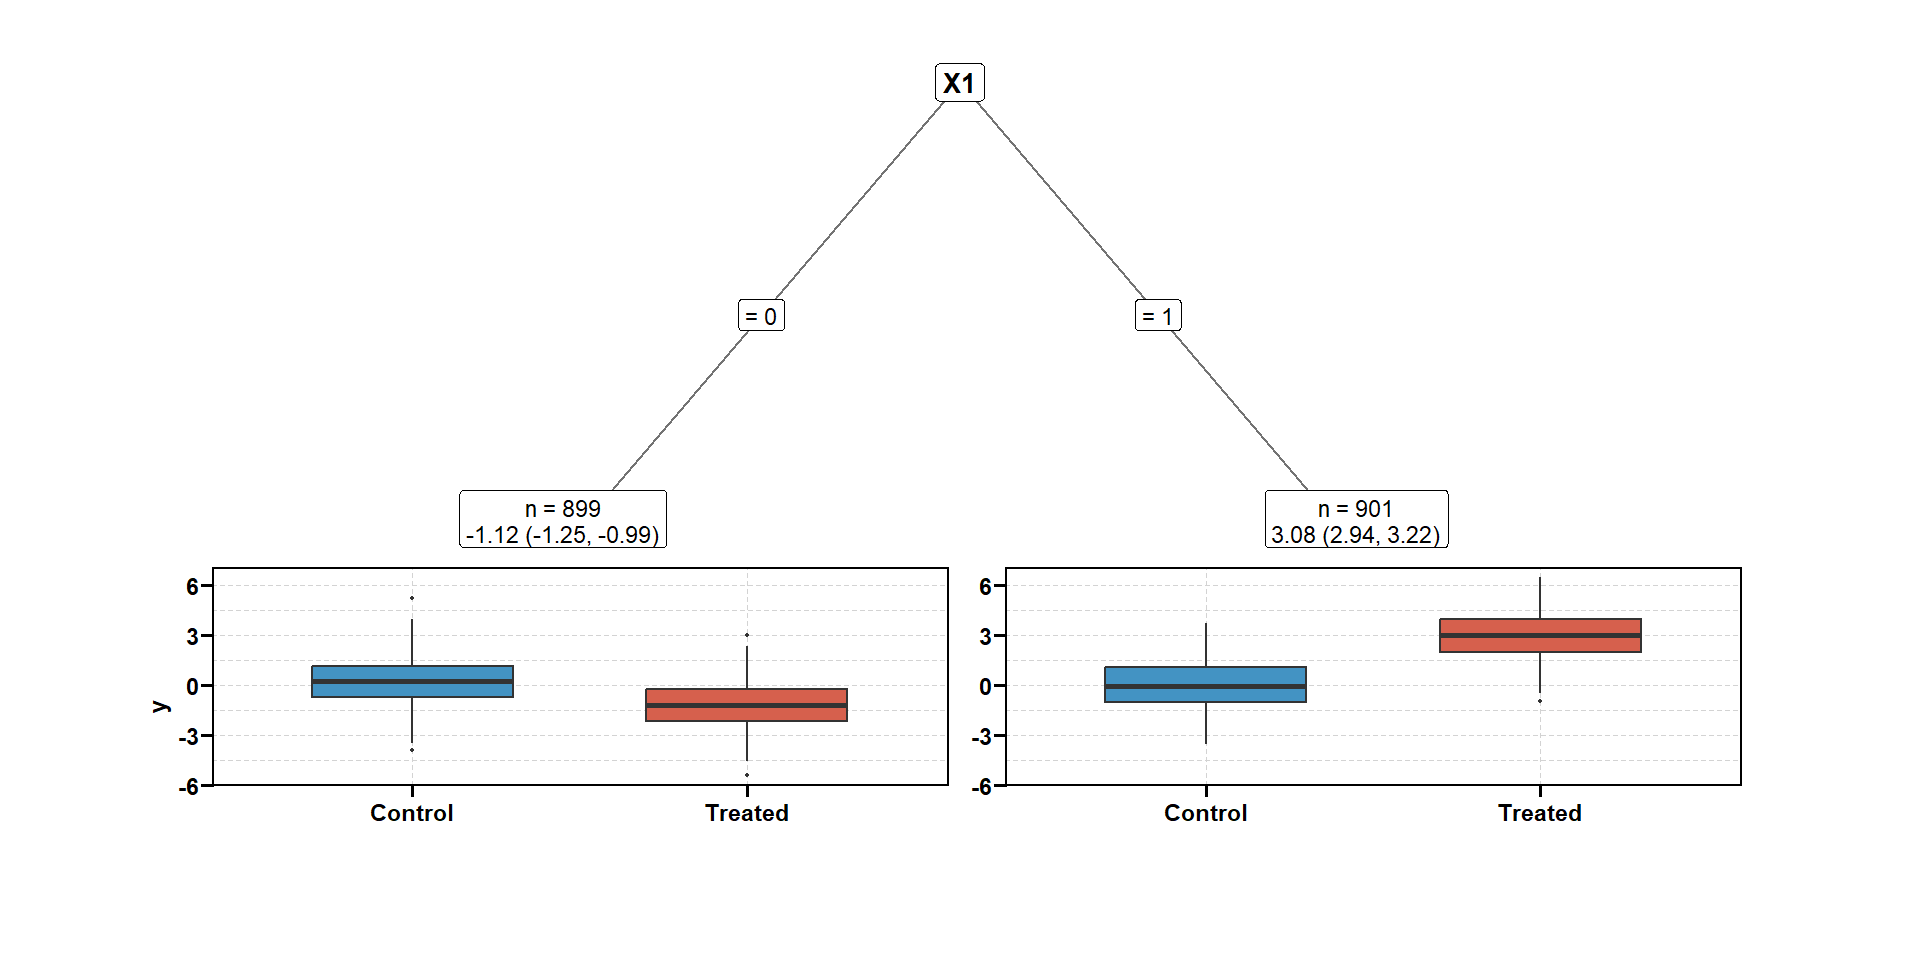
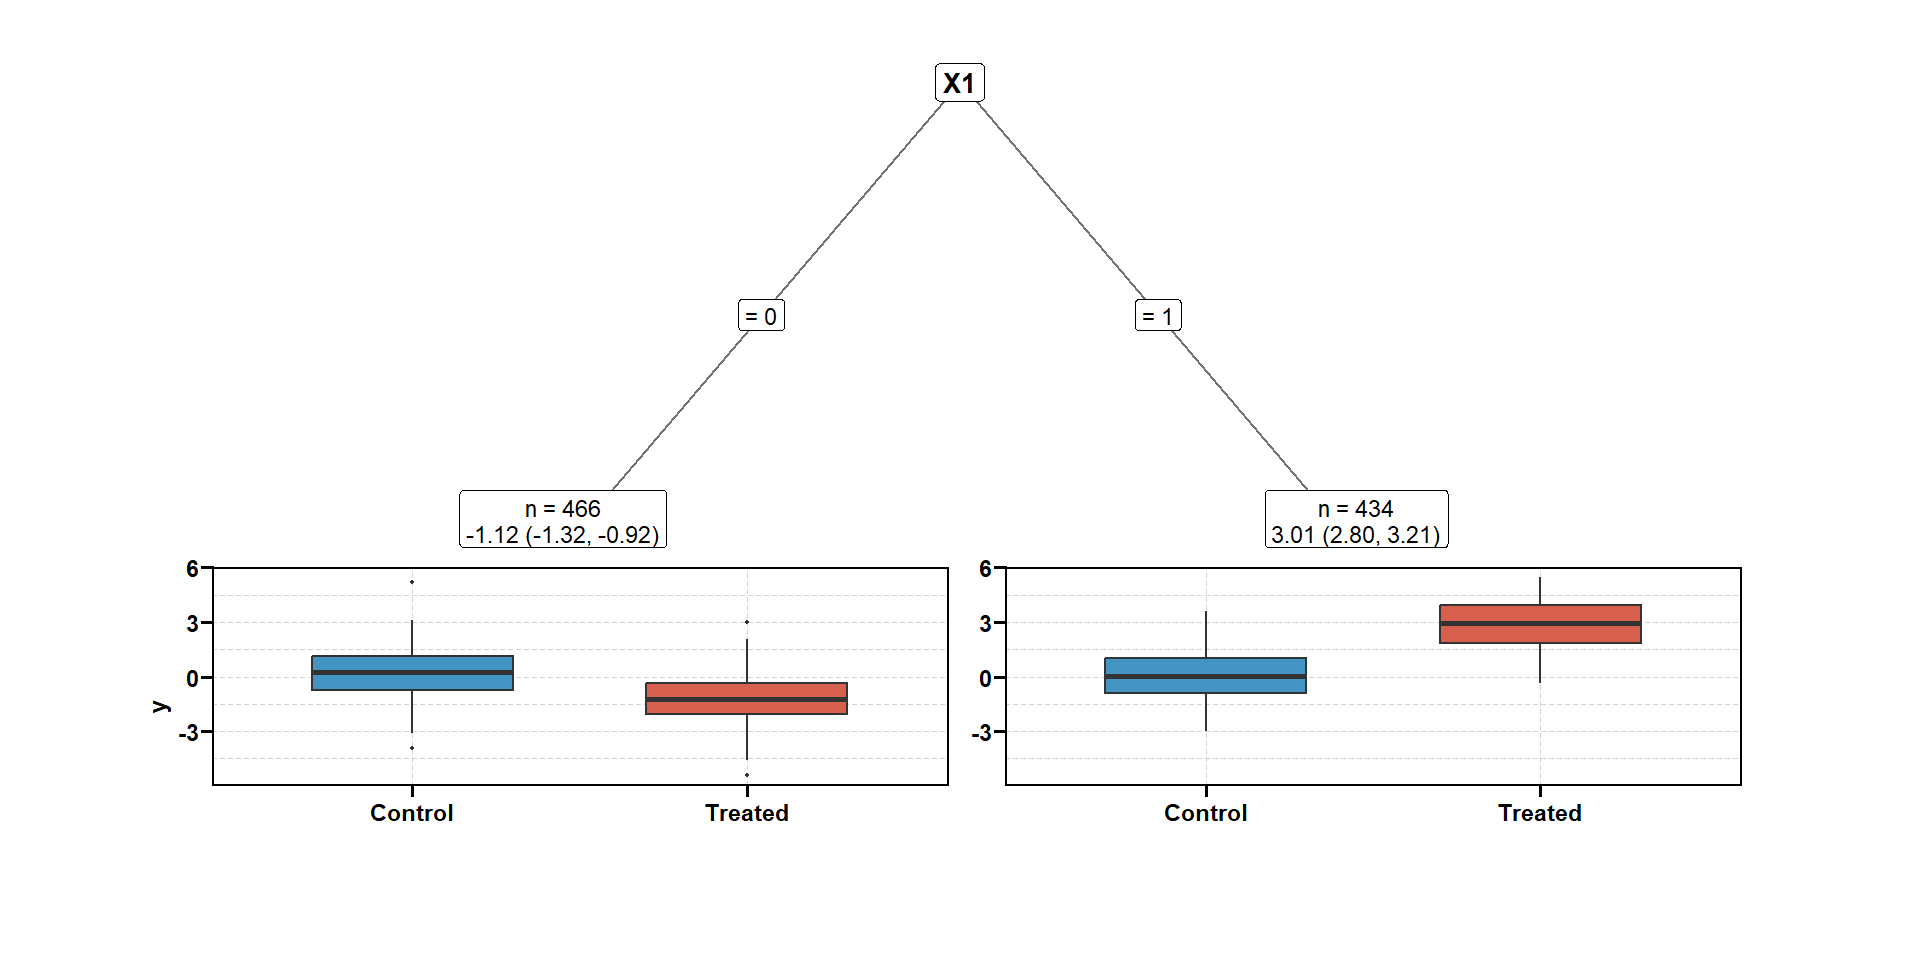
Use explicit held-out iCF estimation and real depth CV

diff --git a/docs/causalr/icf-plot-guide.html b/docs/causalr/icf-plot-guide.html
@@ -66,6 +66,7 @@ pre > code.sourceCode > span > a:first-child::before { text-decoration: underlin
 <script src="../site_libs/quarto-search/fuse.min.js"></script>
 <script src="../site_libs/quarto-search/quarto-search.js"></script>
 <meta name="quarto:offset" content="../">
+<link href="../causalr/hte-diagnostics-guide.html" rel="next">
 <link href="../causalr/tree-stability-guide.html" rel="prev">
 <script src="../site_libs/quarto-html/quarto.js" type="module"></script>
 <script src="../site_libs/quarto-html/tabsets/tabsets.js" type="module"></script>
@@ -801,7 +802,7 @@ pre > code.sourceCode > span > a:first-child::before { text-decoration: underlin
 <span id="cb1-4"><a href="#cb1-4" aria-hidden="true" tabindex="-1"></a>d<span class="sc">$</span>z <span class="ot">&lt;-</span> <span class="fu">rbinom</span>(n, <span class="dv">1</span>, <span class="fu">plogis</span>(<span class="fl">0.4</span> <span class="sc">*</span> d<span class="sc">$</span>X1 <span class="sc">-</span> <span class="fl">0.3</span> <span class="sc">*</span> d<span class="sc">$</span>X2))</span>
 <span id="cb1-5"><a href="#cb1-5" aria-hidden="true" tabindex="-1"></a>d<span class="sc">$</span>y <span class="ot">&lt;-</span> d<span class="sc">$</span>X2 <span class="sc">+</span> d<span class="sc">$</span>z <span class="sc">*</span> (<span class="sc">-</span><span class="dv">1</span> <span class="sc">+</span> <span class="dv">4</span> <span class="sc">*</span> d<span class="sc">$</span>X1) <span class="sc">+</span> <span class="fu">rnorm</span>(n)</span>
 <span id="cb1-6"><a href="#cb1-6" aria-hidden="true" tabindex="-1"></a>fit_args <span class="ot">&lt;-</span> <span class="fu">list</span>(<span class="at">cat_var =</span> <span class="st">"z"</span>, <span class="at">adj_var =</span> <span class="fu">c</span>(<span class="st">"X1"</span>, <span class="st">"X2"</span>, <span class="st">"X3"</span>),</span>
-<span id="cb1-7"><a href="#cb1-7" aria-hidden="true" tabindex="-1"></a>                 <span class="at">candidate_var =</span> <span class="st">"X1"</span>, <span class="at">depth =</span> <span class="dv">1</span>, <span class="at">seed =</span> <span class="dv">123</span>,</span>
+<span id="cb1-7"><a href="#cb1-7" aria-hidden="true" tabindex="-1"></a>                 <span class="at">candidate_var =</span> <span class="st">"X1"</span>, <span class="at">depth =</span> <span class="dv">1</span><span class="sc">:</span><span class="dv">2</span>, <span class="at">split_frac =</span> <span class="fl">0.5</span>, <span class="at">seed =</span> <span class="dv">123</span>,</span>
 <span id="cb1-8"><a href="#cb1-8" aria-hidden="true" tabindex="-1"></a>                 <span class="at">rule_args =</span> <span class="fu">list</span>(<span class="at">n_forest =</span> <span class="dv">5</span>, <span class="at">num_trees =</span> <span class="dv">200</span>, <span class="at">n_folds =</span> <span class="dv">3</span>, <span class="at">screen =</span> <span class="cn">FALSE</span>),</span>
 <span id="cb1-9"><a href="#cb1-9" aria-hidden="true" tabindex="-1"></a>                 <span class="at">grf_args =</span> <span class="fu">list</span>(<span class="at">num.trees =</span> <span class="dv">500</span>, <span class="at">num.threads =</span> <span class="dv">2</span>))</span>
 <span id="cb1-10"><a href="#cb1-10" aria-hidden="true" tabindex="-1"></a>icf <span class="ot">&lt;-</span> <span class="fu">do.call</span>(get_hte_icf, <span class="fu">c</span>(<span class="fu">list</span>(<span class="at">data =</span> d, <span class="at">surv =</span> <span class="st">"y"</span>), fit_args))</span>
@@ -809,21 +810,24 @@ pre > code.sourceCode > span > a:first-child::before { text-decoration: underlin
 <span id="cb1-12"><a href="#cb1-12" aria-hidden="true" tabindex="-1"></a><span class="co">#&gt; # A tibble: 2 x 11</span></span>
 <span id="cb1-13"><a href="#cb1-13" aria-hidden="true" tabindex="-1"></a><span class="co">#&gt;    leaf rule   n_disc     n n_treat estimate std.error conf.low conf.high</span></span>
 <span id="cb1-14"><a href="#cb1-14" aria-hidden="true" tabindex="-1"></a><span class="co">#&gt;   &lt;int&gt; &lt;chr&gt;   &lt;int&gt; &lt;int&gt;   &lt;int&gt;    &lt;dbl&gt;     &lt;dbl&gt;    &lt;dbl&gt;     &lt;dbl&gt;</span></span>
-<span id="cb1-15"><a href="#cb1-15" aria-hidden="true" tabindex="-1"></a><span class="co">#&gt; 1     1 X1 = 0    899   899     410    -1.12    0.0683    -1.25    -0.985</span></span>
-<span id="cb1-16"><a href="#cb1-16" aria-hidden="true" tabindex="-1"></a><span class="co">#&gt; 2     2 X1 = 1    901   901     501     3.08    0.0710     2.94     3.22 </span></span>
+<span id="cb1-15"><a href="#cb1-15" aria-hidden="true" tabindex="-1"></a><span class="co">#&gt; 1     1 X1 = 0    433   466     217    -1.12     0.101    -1.32    -0.924</span></span>
+<span id="cb1-16"><a href="#cb1-16" aria-hidden="true" tabindex="-1"></a><span class="co">#&gt; 2     2 X1 = 1    467   434     238     3.01     0.105     2.80     3.21 </span></span>
 <span id="cb1-17"><a href="#cb1-17" aria-hidden="true" tabindex="-1"></a><span class="co">#&gt; # i 2 more variables: p.value &lt;dbl&gt;, p_inter &lt;dbl&gt;</span></span>
 <span id="cb1-18"><a href="#cb1-18" aria-hidden="true" tabindex="-1"></a>icf<span class="sc">$</span>cv</span>
-<span id="cb1-19"><a href="#cb1-19" aria-hidden="true" tabindex="-1"></a><span class="co">#&gt; # A tibble: 2 x 5</span></span>
+<span id="cb1-19"><a href="#cb1-19" aria-hidden="true" tabindex="-1"></a><span class="co">#&gt; # A tibble: 3 x 5</span></span>
 <span id="cb1-20"><a href="#cb1-20" aria-hidden="true" tabindex="-1"></a><span class="co">#&gt;   depth n_leaf cv_loss std.error selected</span></span>
 <span id="cb1-21"><a href="#cb1-21" aria-hidden="true" tabindex="-1"></a><span class="co">#&gt;   &lt;int&gt;  &lt;int&gt;   &lt;dbl&gt;     &lt;dbl&gt; &lt;lgl&gt;   </span></span>
-<span id="cb1-22"><a href="#cb1-22" aria-hidden="true" tabindex="-1"></a><span class="co">#&gt; 1     0      1      NA        NA FALSE   </span></span>
-<span id="cb1-23"><a href="#cb1-23" aria-hidden="true" tabindex="-1"></a><span class="co">#&gt; 2     1      2      NA        NA TRUE</span></span>
-<span id="cb1-24"><a href="#cb1-24" aria-hidden="true" tabindex="-1"></a>icf<span class="sc">$</span>vote</span>
-<span id="cb1-25"><a href="#cb1-25" aria-hidden="true" tabindex="-1"></a><span class="co">#&gt; # A tibble: 1 x 4</span></span>
-<span id="cb1-26"><a href="#cb1-26" aria-hidden="true" tabindex="-1"></a><span class="co">#&gt;   depth n_leaf share partition      </span></span>
-<span id="cb1-27"><a href="#cb1-27" aria-hidden="true" tabindex="-1"></a><span class="co">#&gt;   &lt;int&gt;  &lt;int&gt; &lt;dbl&gt; &lt;chr&gt;          </span></span>
-<span id="cb1-28"><a href="#cb1-28" aria-hidden="true" tabindex="-1"></a><span class="co">#&gt; 1     1      2     1 X1 = 0 | X1 = 1</span></span>
-<span id="cb1-29"><a href="#cb1-29" aria-hidden="true" tabindex="-1"></a><span class="fu">stopifnot</span>(<span class="fu">nrow</span>(icf<span class="sc">$</span>rules) <span class="sc">&gt;</span> <span class="dv">1</span>L)</span></code></pre></div><button title="复制到剪贴板" class="code-copy-button"><i class="bi"></i></button></div>
+<span id="cb1-22"><a href="#cb1-22" aria-hidden="true" tabindex="-1"></a><span class="co">#&gt; 1     0      1    8.75     0.352 FALSE   </span></span>
+<span id="cb1-23"><a href="#cb1-23" aria-hidden="true" tabindex="-1"></a><span class="co">#&gt; 2     1      2    4.18     0.192 TRUE    </span></span>
+<span id="cb1-24"><a href="#cb1-24" aria-hidden="true" tabindex="-1"></a><span class="co">#&gt; 3     2      2    4.18     0.192 FALSE</span></span>
+<span id="cb1-25"><a href="#cb1-25" aria-hidden="true" tabindex="-1"></a>icf<span class="sc">$</span>vote</span>
+<span id="cb1-26"><a href="#cb1-26" aria-hidden="true" tabindex="-1"></a><span class="co">#&gt; # A tibble: 2 x 4</span></span>
+<span id="cb1-27"><a href="#cb1-27" aria-hidden="true" tabindex="-1"></a><span class="co">#&gt;   depth n_leaf share partition      </span></span>
+<span id="cb1-28"><a href="#cb1-28" aria-hidden="true" tabindex="-1"></a><span class="co">#&gt;   &lt;int&gt;  &lt;int&gt; &lt;dbl&gt; &lt;chr&gt;          </span></span>
+<span id="cb1-29"><a href="#cb1-29" aria-hidden="true" tabindex="-1"></a><span class="co">#&gt; 1     1      2     1 X1 = 0 | X1 = 1</span></span>
+<span id="cb1-30"><a href="#cb1-30" aria-hidden="true" tabindex="-1"></a><span class="co">#&gt; 2     2      2     1 X1 = 0 | X1 = 1</span></span>
+<span id="cb1-31"><a href="#cb1-31" aria-hidden="true" tabindex="-1"></a><span class="fu">stopifnot</span>(<span class="fu">nrow</span>(icf<span class="sc">$</span>rules) <span class="sc">&gt;</span> <span class="dv">1</span>L, <span class="fu">attr</span>(icf, <span class="st">"analysis"</span>)<span class="sc">$</span>split_frac <span class="sc">==</span> <span class="fl">0.5</span>,</span>
+<span id="cb1-32"><a href="#cb1-32" aria-hidden="true" tabindex="-1"></a>          <span class="fu">all</span>(<span class="fu">is.finite</span>(icf<span class="sc">$</span>cv<span class="sc">$</span>cv_loss)))</span></code></pre></div><button title="复制到剪贴板" class="code-copy-button"><i class="bi"></i></button></div>
 </div>
 <p>这里预先限定 <code>candidate_var="X1"</code>，便于稳定展示两叶树，<strong>不是未知规则发现能力的评估</strong>。 <code>adj_var</code> 仍保留混杂调整变量。完整算法与模拟见 <a href="https://hui950319.github.io/causalR/notes/causalR/05-hte-icf.html">配套 iCF 手册</a>。</p>
 </section>
@@ -861,7 +865,7 @@ pre > code.sourceCode > span > a:first-child::before { text-decoration: underlin
 <tr class="even">
 <td><code>depth</code></td>
 <td><code>1:3</code></td>
-<td>候选正整数深度；默认还让深度 0 参加 CV，表示不划亚组</td>
+<td>多个深度通过 CV 选择，默认让 0 参加；单个深度直接固定，跳过 CV 和闸门</td>
 </tr>
 <tr class="odd">
 <td><code>style</code></td>
@@ -875,8 +879,8 @@ pre > code.sourceCode > span > a:first-child::before { text-decoration: underlin
 </tr>
 <tr class="odd">
 <td><code>split_frac</code></td>
-<td><code>0.5</code></td>
-<td>按治疗组划分发现与估计样本；<code>1</code> 复用患者，区间不再诚实</td>
+<td>通常 <code>0.5</code></td>
+<td>单个 depth 或 style=“icf” 时，若省略则改为 1；本页显式 0.5，独立估计</td>
 </tr>
 <tr class="even">
 <td><code>seed</code></td>
@@ -890,6 +894,7 @@ pre > code.sourceCode > span > a:first-child::before { text-decoration: underlin
 </tr>
 </tbody>
 </table>
+<p><strong>条件默认不能只看 formals。</strong> 单个 <code>depth</code> 时即使 <code>style="causalR"</code>，省略 <code>split_frac</code> 也会发现与估计复用全部患者，<code>cv_loss/std.error</code> 为 NA；<code>rule_args$n_folds/gate</code> 不会运行。 本页用 <code>depth=1:2, split_frac=0.5</code>，实际进行 CV，并断言 CV 损失有限。 只允许 X1 切分时，深度 2 无法产生更深的新分区，不等于自动发现了多个修饰变量。</p>
 <section id="rule_args同一个-list-的局部覆盖" class="level3">
 <h3 class="anchored" data-anchor-id="rule_args同一个-list-的局部覆盖">rule_args：同一个 list 的局部覆盖</h3>
 <p>以下默认值对应 <code>style="causalR"</code>。<code>style="icf"</code> 的差异应查帮助页，不能只切换名称后假定其他设置相同。</p>
@@ -1150,10 +1155,11 @@ pre > code.sourceCode > span > a:first-child::before { text-decoration: underlin
 <span id="cb7-8"><a href="#cb7-8" aria-hidden="true" tabindex="-1"></a><span class="co">#&gt; # A tibble: 2 x 11</span></span>
 <span id="cb7-9"><a href="#cb7-9" aria-hidden="true" tabindex="-1"></a><span class="co">#&gt;    leaf rule   n_disc     n n_treat estimate std.error conf.low conf.high</span></span>
 <span id="cb7-10"><a href="#cb7-10" aria-hidden="true" tabindex="-1"></a><span class="co">#&gt;   &lt;int&gt; &lt;chr&gt;   &lt;int&gt; &lt;int&gt;   &lt;int&gt;    &lt;dbl&gt;     &lt;dbl&gt;    &lt;dbl&gt;     &lt;dbl&gt;</span></span>
-<span id="cb7-11"><a href="#cb7-11" aria-hidden="true" tabindex="-1"></a><span class="co">#&gt; 1     1 X1 = 0    899   899     410   -0.293    0.0324   -0.357    -0.230</span></span>
-<span id="cb7-12"><a href="#cb7-12" aria-hidden="true" tabindex="-1"></a><span class="co">#&gt; 2     2 X1 = 1    901   901     501    0.334    0.0331    0.270     0.399</span></span>
+<span id="cb7-11"><a href="#cb7-11" aria-hidden="true" tabindex="-1"></a><span class="co">#&gt; 1     1 X1 = 0    433   466     217   -0.316    0.0446   -0.403    -0.229</span></span>
+<span id="cb7-12"><a href="#cb7-12" aria-hidden="true" tabindex="-1"></a><span class="co">#&gt; 2     2 X1 = 1    467   434     238    0.347    0.0489    0.251     0.443</span></span>
 <span id="cb7-13"><a href="#cb7-13" aria-hidden="true" tabindex="-1"></a><span class="co">#&gt; # i 2 more variables: p.value &lt;dbl&gt;, p_inter &lt;dbl&gt;</span></span>
-<span id="cb7-14"><a href="#cb7-14" aria-hidden="true" tabindex="-1"></a><span class="fu">stopifnot</span>(<span class="fu">nrow</span>(icf_surv<span class="sc">$</span>rules) <span class="sc">&gt;</span> <span class="dv">1</span>L)</span></code></pre></div><button title="复制到剪贴板" class="code-copy-button"><i class="bi"></i></button></div>
+<span id="cb7-14"><a href="#cb7-14" aria-hidden="true" tabindex="-1"></a><span class="fu">stopifnot</span>(<span class="fu">nrow</span>(icf_surv<span class="sc">$</span>rules) <span class="sc">&gt;</span> <span class="dv">1</span>L, <span class="fu">attr</span>(icf_surv, <span class="st">"analysis"</span>)<span class="sc">$</span>split_frac <span class="sc">==</span> <span class="fl">0.5</span>,</span>
+<span id="cb7-15"><a href="#cb7-15" aria-hidden="true" tabindex="-1"></a>          <span class="fu">all</span>(<span class="fu">is.finite</span>(icf_surv<span class="sc">$</span>cv<span class="sc">$</span>cv_loss)))</span></code></pre></div><button title="复制到剪贴板" class="code-copy-button"><i class="bi"></i></button></div>
 </div>
 <div class="tabset-margin-container"></div><div class="panel-tabset">
 <ul class="nav nav-tabs" role="tablist"><li class="nav-item" role="presentation"><a class="nav-link active" id="tabset-2-1-tab" data-bs-toggle="tab" data-bs-target="#tabset-2-1" role="tab" aria-controls="tabset-2-1" aria-selected="true" href="">生存概率差</a></li><li class="nav-item" role="presentation"><a class="nav-link" id="tabset-2-2-tab" data-bs-toggle="tab" data-bs-target="#tabset-2-2" role="tab" aria-controls="tabset-2-2" aria-selected="false" href="">原始 KM 曲线</a></li></ul>
@@ -1696,6 +1702,9 @@ pre > code.sourceCode > span > a:first-child::before { text-decoration: underlin
       </a>
   </div>
   <div class="nav-page nav-page-next">
+      <a href="../causalr/hte-diagnostics-guide.html" class="pagination-link" aria-label="HTE 诊断：校准、RATE、TOC、Qini 与 GATES">
+        <span class="nav-page-text"><span class="chapter-title">HTE 诊断：校准、RATE、TOC、Qini 与 GATES</span></span> <i class="bi bi-arrow-right-short"></i>
+      </a>
   </div>
 </nav>
 </div> <!-- /content -->

diff --git a/docs/regr/rpa-cox-benchmark.html b/docs/regr/rpa-cox-benchmark.html
@@ -684,56 +684,56 @@ pre > code.sourceCode > span > a:first-child::before { text-decoration: underlin
       </ul>
   </li>
         <li class="sidebar-item sidebar-item-section">
-      <div class="sidebar-item-container"> 
+      <div class="sidebar-item-container">
             <a class="sidebar-item-text sidebar-link text-start collapsed" data-bs-toggle="collapse" data-bs-target="#quarto-sidebar-section-8" role="navigation" aria-expanded="false">
  <span class="menu-text">causalR · 因果推断与效应异质性</span></a>
           <a class="sidebar-item-toggle text-start collapsed" data-bs-toggle="collapse" data-bs-target="#quarto-sidebar-section-8" role="navigation" aria-expanded="false" aria-label="展开或折叠此栏">
             <i class="bi bi-chevron-right ms-2"></i>
-          </a> 
+          </a>
       </div>
-      <ul id="quarto-sidebar-section-8" class="collapse list-unstyled sidebar-section depth1 ">  
+      <ul id="quarto-sidebar-section-8" class="collapse list-unstyled sidebar-section depth1 ">
           <li class="sidebar-item">
-  <div class="sidebar-item-container"> 
+  <div class="sidebar-item-container">
   <a href="../causalr/function-modules.html" class="sidebar-item-text sidebar-link"><span class="chapter-title">causalR 功能模块图</span></a>
   </div>
 </li>
           <li class="sidebar-item">
-  <div class="sidebar-item-container"> 
+  <div class="sidebar-item-container">
   <a href="../causalr/index.html" class="sidebar-item-text sidebar-link"><span class="chapter-title">causalR 包总览：问题、函数与返回对象</span></a>
   </div>
 </li>
           <li class="sidebar-item">
-  <div class="sidebar-item-container"> 
+  <div class="sidebar-item-container">
   <a href="../causalr/tree-stability-guide.html" class="sidebar-item-text sidebar-link"><span class="chapter-title">亚组树的稳定性与新样本分组</span></a>
   </div>
 </li>
           <li class="sidebar-item">
-  <div class="sidebar-item-container"> 
+  <div class="sidebar-item-container">
   <a href="../causalr/icf-plot-guide.html" class="sidebar-item-text sidebar-link"><span class="chapter-title">iCF 亚组树：计算参数与五种叶子视图</span></a>
   </div>
 </li>
           <li class="sidebar-item">
-  <div class="sidebar-item-container"> 
+  <div class="sidebar-item-container">
   <a href="../causalr/hte-diagnostics-guide.html" class="sidebar-item-text sidebar-link"><span class="chapter-title">HTE 诊断：校准、RATE、TOC、Qini 与 GATES</span></a>
   </div>
 </li>
           <li class="sidebar-item">
-  <div class="sidebar-item-container"> 
+  <div class="sidebar-item-container">
   <a href="../causalr/method-selection-guide.html" class="sidebar-item-text sidebar-link"><span class="chapter-title">HTE 方法选择：变量筛选、线性投影与亚组规则</span></a>
   </div>
 </li>
           <li class="sidebar-item">
-  <div class="sidebar-item-container"> 
+  <div class="sidebar-item-container">
   <a href="../causalr/survival-estimands-guide.html" class="sidebar-item-text sidebar-link"><span class="chapter-title">生存效应尺度：概率差、事件风险比与 RMST</span></a>
   </div>
 </li>
           <li class="sidebar-item">
-  <div class="sidebar-item-container"> 
+  <div class="sidebar-item-container">
   <a href="../causalr/clinical-workflow-guide.html" class="sidebar-item-text sidebar-link"><span class="chapter-title">观察性研究工作流：平衡、效应、HTE 与敏感性</span></a>
   </div>
 </li>
           <li class="sidebar-item">
-  <div class="sidebar-item-container"> 
+  <div class="sidebar-item-container">
   <a href="../causalr/computation-reuse-guide.html" class="sidebar-item-text sidebar-link"><span class="chapter-title">计算与复用：森林缓存、树参数与时间网格</span></a>
   </div>
 </li>
